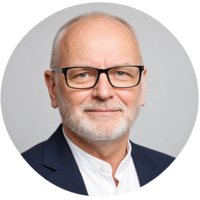
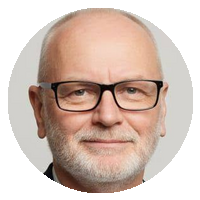
Finalny awatar (zbliżenie na twarz, biała obwódka), rozbudowa generatora QR, duże uzupełnienie TODO (#61)
Awatar Zbigniewa Strzyżyńskiego:
- zbigniew-strzyzynski-avatar.png: nowe przetworzenie dostarczonego zdjęcia
  — zoom na twarz, okrągłe przycięcie, biała obwódka wewnątrz koła,
  przezroczyste tło poza kołem.
- css/style.css: dodano obwódkę .narrator-avatar w kolorze #8c7a5b (border:
  2px solid), na prośbę właściciela repozytorium.

qr/generator.html — rozbudowa narzędzia:
- nowa sekcja z kodem QR wejścia na stronę główną (PL + EN, adres
  bezpośredni),
- nowa sekcja z kodem QR na plakat (przez przekierowanie plakat-qr.html,
  żeby dało się policzyć wejścia z plakatu osobno w statystykach),
- nowy plik plakat-qr.html (przekierowanie do strony głównej, ten sam
  wzorzec co istniejące stuby -qr.html przy rzeźbach),
- generator kodu QR dla dowolnego własnego adresu, z wyraźnym
  ostrzeżeniem, że nie zadziała, dopóki strona pod tym adresem nie
  zostanie faktycznie stworzona.

TRESCI-DO-UZUPELNIENIA.md — duże uzupełnienie na podstawie wiadomości
właściciela repozytorium:
- doprecyzowano "Lista na stronie głównej/mapie" jako listę rzeźb,
- Panna z rybą: numer telefonu to teraz wybór między dostarczeniem numeru
  a usunięciem tego fragmentu z nagrania i transkrypcji,
- O projekcie: dodano priorytetowy punkt o warunkach dotacji (co ma być
  widoczne, gdzie, jakiego rozmiaru/formatu, dane kontaktowe czy tylko
  stopka, referencja do Fundacji czy do Zbigniewa),
- nowa sekcja 6 "Domena i adresy" — decyzja o własnej domenie, cztery
  propozycje nazw,
[…]

diff --git a/qr/generator.html b/qr/generator.html
@@ -46,8 +46,49 @@
     <p id="download-status" aria-live="polite"></p>
   </div>
 
-  <h2>Podgląd kodów</h2>
+  <h2>Podgląd kodów — rzeźby</h2>
   <div class="qr-preview-grid" id="qr-preview-grid"></div>
+
+  <h2>Wejście ze strony głównej</h2>
+  <p class="content">
+    Kod QR prowadzący bezpośrednio na stronę główną (adres „czysty", bez
+    przekierowania) — np. do materiałów graficznych, wizytówek, mediów
+    społecznościowych.
+  </p>
+  <div class="qr-preview-grid" id="qr-homepage-grid"></div>
+
+  <h2>Wejście z plakatu</h2>
+  <p class="content">
+    Osobny kod QR dla plakatu promującego spacer — prowadzi na stronę
+    główną przez krótkie przekierowanie (tak jak kody na tabliczkach przy
+    rzeźbach), dzięki czemu w statystykach będzie widać osobno, ile osób
+    weszło na stronę zeskanowawszy plakat.
+  </p>
+  <div class="qr-preview-grid" id="qr-poster-grid"></div>
+
+  <h2>Własny adres (niestandardowy)</h2>
+  <div class="qr-tool-panel">
+    <p style="margin-top:0">
+      <strong>⚠ Uwaga:</strong> ta sekcja generuje kod QR dla adresu, który
+      <strong>sam wpisujesz</strong> — np. na potrzeby materiału drukowanego,
+      dla którego docelowa podstrona jeszcze nie istnieje. Wygenerowany kod
+      <strong>nie będzie działał</strong> (po zeskanowaniu pokaże błąd 404),
+      dopóki ktoś faktycznie nie stworzy strony pod tym adresem w
+      repozytorium i jej nie opublikuje. Użyj tego tylko do wcześniejszego
+      przygotowania grafiki z kodem QR — nie do finalnego druku, zanim
+      strona docelowa nie zadziała.
+    </p>
+    <label for="custom-path-input" style="display:block; margin-bottom:0.3em">
+      Ścieżka po adresie bazowym (bez ukośnika na początku), np.
+      <code>ulotka/</code> lub <code>en/ulotka/</code>:
+    </label>
+    <div class="base-url-box">
+      <code id="custom-base-display"></code>
+      <input type="text" id="custom-path-input" placeholder="ulotka/" style="flex:1; min-width:12rem; padding:0.4em 0.6em; font-size:1rem;">
+      <button type="button" class="btn btn--secondary" id="custom-generate-btn">Generuj kod</button>
+    </div>
+    <div class="qr-preview-grid" id="qr-custom-grid" style="margin-top:var(--space-3)"></div>
+  </div>
 
 </div>
 
@@ -141,11 +182,51 @@
     });
   }
 
+  function renderCard(container, label, url, filename) {
+    var svg = makeSvg(url);
+    var card = document.createElement("div");
+    card.className = "qr-preview-card";
+    card.innerHTML =
+      '<div style="width:12rem;height:12rem;margin:0 auto">' + svg + '</div>' +
+      '<strong>' + label + '</strong>' +
+      '<p style="font-size:0.85rem;word-break:break-all">' + url + '</p>' +
+      '<button type="button" class="btn btn--secondary">Pobierz SVG</button>';
+    card.querySelector("button").addEventListener("click", function () {
+      downloadSvg(filename, svg);
+    });
+    container.appendChild(card);
+  }
+
+  function renderHomepageAndPoster() {
+    var homeGrid = document.getElementById("qr-homepage-grid");
+    renderCard(homeGrid, "Strona główna (PL)", BASE_URL, "qr-strona-glowna-pl.svg");
+    renderCard(homeGrid, "Homepage (EN)", BASE_URL + "en/", "qr-homepage-en.svg");
+
+    var posterGrid = document.getElementById("qr-poster-grid");
+    renderCard(posterGrid, "Plakat → strona główna", BASE_URL + "plakat-qr.html", "qr-plakat.svg");
+  }
+
+  function initCustomGenerator() {
+    document.getElementById("custom-base-display").textContent = BASE_URL;
+    var input = document.getElementById("custom-path-input");
+    var grid = document.getElementById("qr-custom-grid");
+    document.getElementById("custom-generate-btn").addEventListener("click", function () {
+      var path = input.value.trim().replace(/^\/+/, "");
+      if (!path) return;
+      grid.innerHTML = "";
+      var url = BASE_URL + path;
+      var safeFilename = "qr-wlasny-" + path.replace(/[^a-z0-9]+/gi, "-").replace(/^-+|-+$/g, "") + ".svg";
+      renderCard(grid, "Własny adres (jeszcze nieistniejący, dopóki nie stworzysz tej strony)", url, safeFilename);
+    });
+  }
+
   if (typeof RZEZBY === "undefined" || typeof QRCode === "undefined") {
     document.getElementById("qr-preview-grid").textContent =
       "Nie udało się wczytać danych rzeźb lub biblioteki QR. Sprawdź, czy pliki data/rzezby.js i vendor/qrcode/qrcode-svg.js istnieją.";
   } else {
     render();
+    renderHomepageAndPoster();
+    initCustomGenerator();
   }
 })();
 </script>

diff --git a/plakat-qr.html b/plakat-qr.html
@@ -1,0 +1,21 @@
+<!doctype html>
+<html lang="pl">
+<head>
+<meta charset="utf-8">
+<meta name="viewport" content="width=device-width, initial-scale=1">
+<meta http-equiv="refresh" content="2; url=./">
+<link rel="canonical" href="./">
+<meta name="robots" content="noindex">
+<title>Przekierowanie… — Nałęczów Stanisława Strzyżyńskiego</title>
+<style>
+  body { font: 1.25rem/1.5 system-ui, sans-serif; color: #1a1a1a; background: #fff; padding: 2rem 1.25rem; max-width: 36rem; margin: 0 auto; }
+  a { color: #0b4f6c; text-decoration: underline; }
+</style>
+</head>
+<body>
+<p>Przekierowanie…</p>
+<p>Przenosimy Cię na stronę główną. Jeśli nie nastąpi to automatycznie, <a href="./">kliknij tutaj</a>.</p>
+<script>window.addEventListener('load', function () { setTimeout(function () { location.replace("./"); }, 150); });</script>
+<script type='module' src='https://static.cloudflareinsights.com/beacon.min.js' data-cf-beacon='{"token": "a46f3933837645ba83ed6957bdff97e0"}'></script>
+</body>
+</html>

diff --git a/css/style.css b/css/style.css
@@ -721,6 +721,7 @@ section { margin-bottom: var(--space-6); }
   width: 48px;
   height: 48px;
   border-radius: 50%;
+  border: 2px solid #8c7a5b;
   object-fit: cover;
   flex-shrink: 0;
 }

diff --git a/TRESCI-DO-UZUPELNIENIA.md b/TRESCI-DO-UZUPELNIENIA.md
@@ -39,10 +39,10 @@ poza kołem — ta sama zasada formatu nie ma tu zastosowania.
 | `kamien-papieski-1.svg` | 800×600 (4:3) | zdjęcie 1 w opisie — widok całości pomnika |
 | `kamien-papieski-2.svg` | 800×600 (4:3) | zdjęcie 2 w opisie — zbliżenie na tablicę pamiątkową |
 | `stanislaw-strzyzynski-portret.svg` | 480×600 (pionowe, 4:5) | biogram na stronie głównej |
-| `zbigniew-strzyzynski-avatar.png` | 200×200 (okrągłe, przezroczyste tło) | podpis „Opowiada Zbigniew Strzyżyński" na każdej podstronie rzeźby — widoczny tylko w widoku desktopowym, na mobile zostaje czysty tekst. **Obecne zdjęcie to tymczasowy placeholder (nie jest to prawdziwe zdjęcie Zbigniewa Strzyżyńskiego) — do podmiany na prawdziwe, bardziej realistyczne zdjęcie.** |
+| `zbigniew-strzyzynski-avatar.png` | 200×200 (okrągłe, biała obwódka, przezroczyste tło poza kołem) | podpis „Opowiada Zbigniew Strzyżyński" na każdej podstronie rzeźby — widoczny tylko w widoku desktopowym, na mobile zostaje czysty tekst. **Obecne zdjęcie to zbliżenie na twarz z dostarczonego zdjęcia przykładowego — nie jest to prawdziwe zdjęcie Zbigniewa Strzyżyńskiego — do podmiany na prawdziwe, docelowe zdjęcie.** |
 
-Lista na stronie głównej/mapie (`#location-list`) jest tekstowa, bez
-miniatur — nie potrzebuje więc osobnego zdjęcia.
+Lista na stronie głównej/mapie (`#location-list`, lista rzeźb pod mapą)
+jest tekstowa, bez miniatur — nie potrzebuje więc osobnego zdjęcia.
 
 Opcjonalnie: `og-cover.jpg` (1200×630) — to duże zdjęcie, które pojawia
 się automatycznie, gdy ktoś wklei link do tej strony w Messengerze,
@@ -126,13 +126,18 @@ w `data/rzezby.js`.
 - **Panna z rybą** (`panna-z-ryba/index.html`, adres `/panna-z-ryba/`) —
   rok powstania już potwierdzony (1979, z transkrypcji nagrania). Do
   dostarczenia:
-  - **priorytet: ogólnodostępny numer telefonu** — transkrypcja nagrania
-    (sekcja „Transkrypcja" na tej podstronie, PL i EN) zaprasza do
-    kontaktu telefonicznego w celu umówienia wizyty w pracowni
+  - **priorytet, decyzja do podjęcia: numer telefonu** — transkrypcja
+    nagrania (sekcja „Transkrypcja" na tej podstronie, PL i EN) zaprasza
+    do kontaktu telefonicznego w celu umówienia wizyty w pracowni
     („Zapraszam do kontaktu telefonicznego i umówienia wizyty"), ale na
-    stronie nigdzie nie podano numeru. Trzeba go umieścić w widocznym
-    miejscu na tej podstronie (np. przy transkrypcji albo w sekcji
-    „Informacje praktyczne") — w obu wersjach językowych,
+    stronie nigdzie nie podano numeru. **Do wyboru jedno z dwóch:**
+    (a) dostarczyć ogólnodostępny numer telefonu i umieścić go w
+    widocznym miejscu na tej podstronie (np. przy transkrypcji albo
+    w sekcji „Informacje praktyczne") — w obu wersjach językowych, albo
+    (b) usunąć to zaproszenie do kontaktu telefonicznego z nagrania —
+    co oznacza też **zmianę transkrypcji** (PL i EN), żeby nie
+    wspominała już o telefonie, skoro na stronie nie będzie żadnego
+    numeru do podania,
   - materiał rzeźby (`material` w danych ma wartość `null`) — nieznany,
   - historia willi „Pod Matką Boską",
   - godziny otwarcia kawiarni Ewelina — do zweryfikowania przed
@@ -152,10 +157,23 @@ w `data/rzezby.js`.
   - informacja o finansowaniu,
   - lista źródeł,
   - nazwa i zakres projektu wspomnianego w sekcji „Część większego
-    projektu".
+    projektu",
+  - **priorytet: warunki uzyskania dotacji na ten projekt** — trzeba
+    dostarczyć, czego dokładnie wymaga dotacja/grant, pod którym projekt
+    powstaje. W szczególności: co dotacja wymaga, żeby znalazło się na
+    stronie (np. logotyp finansującego, informacja o źródle
+    finansowania, konkretne sformułowanie) i gdzie dokładnie — czy ma
+    być widoczne na stronie głównej, czy wystarczy sekcja „O projekcie",
+    czy ma być też w stopce każdej podstrony; jakiej wielkości i w jakim
+    formacie ma być logotyp/informacja; czy wymagane jest umieszczenie
+    danych kontaktowych (łącznie z numerem telefonu?) — jeśli tak, to
+    gdzie (tylko w stopce, czy osobna sekcja) i czy mają to być dane do
+    Fundacji Dom i Sztuka / sztukaidom.com, czy bezpośrednio do
+    Zbigniewa Strzyżyńskiego.
 
   (Strona nie ma już sekcji kontaktowej — usunięta na prośbę właściciela
-  repozytorium.)
+  repozytorium — ale patrz punkt wyżej: warunki dotacji mogą wymagać jej
+  przywrócenia w innej formie.)
 
 ---
 
@@ -196,14 +214,128 @@ tłumaczyć, dopóki polski tekst nie powstanie.
 
 ---
 
-## 6. Adresy po wdrożeniu na GitHub Pages — ZROBIONE
+## 6. Domena i adresy
 
-Strona jest opublikowana pod `https://jacekszwalek.github.io/strzyzynski/`.
-Adres jest już wpisany w `qr/base-url.js`, `sitemap.xml` i `robots.txt`.
+Wdrożenie na GitHub Pages jest zrobione — strona działa pod
+`https://jacekszwalek.github.io/strzyzynski/`, a ten adres jest już
+wpisany w `qr/base-url.js`, `sitemap.xml` i `robots.txt`.
+
+**Priorytet, decyzja do podjęcia: czy zostajemy przy adresie
+`github.io`, czy kupujemy własną domenę?** Propozycje nazw domeny (do
+wyboru lub zaproponowania własnej):
+- `sladamistrzyzynskiego.pl`
+- `sladamiartysty.pl`
+- `spacerstrzyzynskiego.pl`
+- `spacer.strzyzynski.pl`
+
+Gdy domena zostanie wybrana i kupiona, trzeba: podmienić adres w
+`qr/base-url.js`, `sitemap.xml` i `robots.txt`, oraz skonfigurować ją
+w ustawieniach GitHub Pages repozytorium (plik `CNAME`).
+
+**Ta decyzja blokuje projekt kodów QR** (patrz sekcja 7 niżej) — kody QR
+kodują bezpośrednio adres strony, więc ich ostateczny projekt/wydruk nie
+powinien powstać, dopóki adres nie jest już ostatecznie ustalony.
 
 ---
 
-## 7. Logotypy partnerów
+## 7. Kody QR — projekt zablokowany do czasu dwóch decyzji
+
+Zanim kody QR będą gotowe do finalnego zaprojektowania i wydruku,
+potrzebne są **dwie decyzje**:
+1. **Domena/adres strony** (patrz sekcja 6) — każdy kod QR koduje
+   bezpośrednio pełny adres URL; zmiana domeny po wydruku oznacza, że
+   wydrukowane kody przestają działać.
+2. **Finalny adres podstrony Alejka Strzyżyńskiego / Drzewo
+   genealogiczne** (patrz sekcja 3) — ten punkt trasy wciąż czeka na
+   decyzję nazewniczą, od której zależy, czy adres `/alejka-strzyzynskiego/`
+   zostanie, czy się zmieni.
+
+Narzędzie `qr/generator.html` jest już gotowe i rozbudowane o:
+- podgląd i pobieranie kodów QR dla wszystkich rzeźb (PL + EN),
+- osobną sekcję z kodem QR wejścia na samą stronę główną (PL + EN),
+- osobną sekcję z kodem QR na plakat (prowadzi przez krótkie
+  przekierowanie, żeby dało się policzyć w statystykach osobno wejścia
+  z plakatu),
+- generator kodu QR dla dowolnego własnego adresu — z wyraźnym
+  ostrzeżeniem, że taki kod nie zadziała, dopóki ktoś nie stworzy
+  faktycznej strony pod tym adresem.
+
+Wszystko w tym narzędziu automatycznie korzysta z adresu ustawionego
+w `qr/base-url.js` — nie trzeba niczego przepisywać ręcznie po zmianie
+domeny.
+
+---
+
+## 8. Materiały promocyjne (druk)
+
+- **Priorytet: zaprojektować ulotkę/pocztówkę promującą inicjatywę
+  i projekt** — materiał do rozdawania/wykładania, promujący wirtualny
+  spacer. Potrzebne ustalenia: format, treść, zdjęcia, kod QR (patrz
+  sekcja 7 — projekt kodu QR jest zablokowany do czasu decyzji
+  o domenie).
+- **Zlecenie wydruku** — gdy projekt ulotki/pocztówki i plakatu będzie
+  gotowy, trzeba zlecić wydruk u drukarni oraz podjąć decyzję
+  o wielkości pierwszego nakładu.
+
+---
+
+## 9. Decyzje projektowe do podjęcia
+
+- **Forma prezentacji przystanków na stronie głównej** — obecnie krótka
+  lista/siatka przystanków na stronie startowej. Do zdecydowania: czy
+  mają to być kafelki ze zdjęciami (jak obecnie), czy numerowane boxy
+  bez zdjęć (prostsze, szybciej się ładują, ale mniej zachęcające
+  wizualnie).
+- **Precyzyjny opis sekcji „Jak korzystać ze spaceru"** (kroki 1, 2,
+  3… na stronie startowej) — obecny opis jest zbyt ogólny. Do
+  uzupełnienia/doprecyzowania:
+  - że kolejność kroków ma znaczenie (np. najpierw obejrzeć film
+    wprowadzający, potem wyruszyć na spacer),
+  - że na stronie głównej jest film wprowadzający (YouTube), a na
+    podstronach poszczególnych rzeźb jest tylko audio (patrz sekcja 2a/2b)
+    — to rozróżnienie warto wprost wytłumaczyć odwiedzającemu, żeby nie
+    szukał filmu przy rzeźbie.
+- **Napis na górze strony (nagłówek/logo serwisu)** — do ustalenia, co
+  ma figurować na samej górze strony, zarówno w wersji mobilnej, jak
+  i desktopowej: sam tekst (nazwa serwisu), grafika/logo, czy jedno
+  i drugie razem.
+- **Favicon** — czy Michał może podpowiedzieć, co umieścić jako favicon
+  (mała ikonka strony widoczna w karcie przeglądarki)? Obecny plik to
+  placeholder.
+
+---
+
+## 10. Pola w danych jeszcze bez zastosowania (`data/rzezby.js`)
+
+Trzy pola w danych każdej rzeźby nie są dziś w pełni wykorzystane —
+wyjaśnienie, do czego służą (albo mogłyby służyć), i co warto
+zdecydować:
+
+- **`tonPowazny: false`** — jeśli ustawione na `true` dla danej rzeźby,
+  podstrona dostaje przyciemnioną, bardziej stonowaną kolorystykę oraz
+  dodatkową notkę „To miejsce pamięci — prosimy o zachowanie powagi
+  podczas odwiedzin." Obecnie **wyłączone dla wszystkich czterech
+  rzeźb** — w tym dla Kamienia papieskiego, który jako pomnik
+  upamiętniający wizytę papieża wydaje się najbardziej oczywistym
+  kandydatem. Decyzja do podjęcia: włączyć dla Kamienia papieskiego
+  (albo zostawić wszystkie jak teraz)?
+- **`wspolautorstwoWyeksponowac: true`** — pole jest wypełnione
+  (`true` dla Ławeczki Prusa i Kamienia papieskiego, `false` dla
+  pozostałych dwóch), ale **obecnie nie jest nigdzie odczytywane
+  w kodzie strony** — nie ma żadnego efektu wizualnego. Decyzja do
+  podjęcia: albo dopisać w kodzie, co ma się dziać, gdy jest `true`
+  (np. dodatkowe wyróżnienie współautorstwa w widoku rzeźby), albo
+  usunąć to pole jako nieużywane.
+- **`dataOdsloniecia: { pl: null, en: null }`** — pole istnieje
+  w danych (wypełnione tylko dla Ławeczki Prusa), ale **obecnie nie
+  jest nigdzie odczytywane w kodzie strony** — nie pojawia się na
+  żadnej podstronie. Decyzja do podjęcia: albo dodać je do widoku
+  podstrony (np. do siatki „Rok / Materiał / Miejsce / Autorstwo"),
+  albo usunąć jako nieużywane.
+
+---
+
+## 11. Logotypy partnerów
 
 Na stronie „O projekcie" są trzy puste miejsca na logotypy (`.partner-logo-slot`).
 Podmień je na obrazy, gdy będą znane nazwy partnerów/finansujących.
